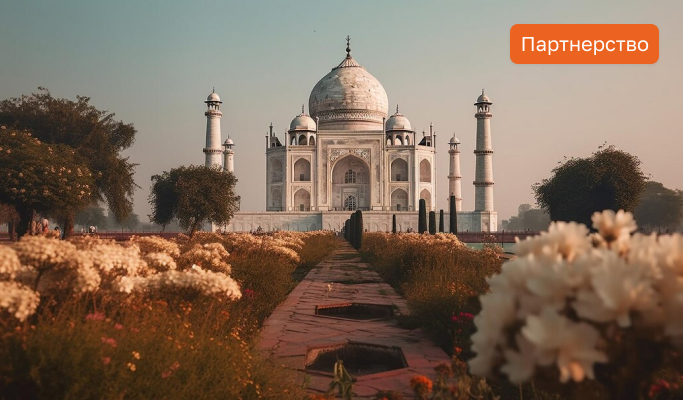
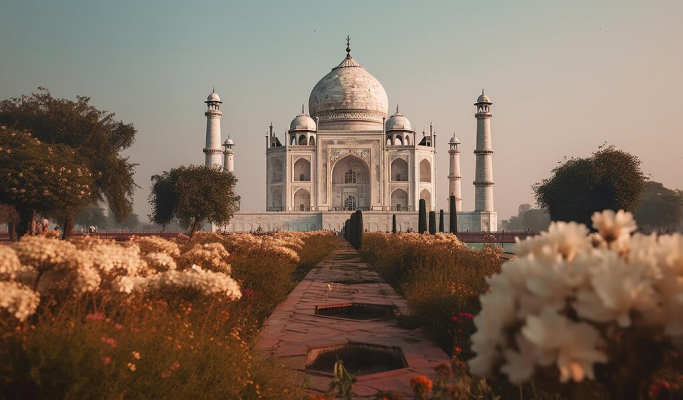
news html

Changed region(s): [[0.7379, 0.06, 0.9839, 0.18]]

diff --git a/index.html b/index.html
@@ -1128,6 +1128,39 @@
           </form>
         </div>
       </section>
+      <section class="news">
+        <div class="container news__ontainer">
+          <div class="news__header">
+            <h2 class="title news__header-title">География бизнеса</h2>
+            <a href="#" class="news__header-link">Дилерство PRIDE</a>
+          </div>
+          <div class="news__body">
+            <div class="news__body-top">
+              <div class="news__body-cart_horizontal">
+                <div class="news__body-cart_horizontal-label">Партнерство</div>
+                <img
+                  src="images/news/n01.jpg"
+                  alt="Первая новость"
+                  loading="lazy" />
+                <div class="news__body-cart_horizontal-textbox">
+                  <div class="news__body-cart_horizontal-data"></div>
+                    1 Января, 2024 г.
+                  </div>
+                  <h3 class="news__body-cart_horizontal-title">
+                    Встречаем гостя из Индии!
+                  </h3>
+                  <p class="news__body-cart_horizontal-subtitle">
+                    На прошлой неделе наш завод PRIDE посетил представитель ACME
+                    TECHNOLOGIES, господин Basavaraj Prabhugoudabiradar,
+                    прибывший из живописного города Bangalore, India.</p>
+                  <div class="news__body-cart_horizontal-tile">8 мин.</div>
+                </div>
+              </div>
+            </div>
+            <div class="news__body-down"></div>
+          </div>
+        </div>
+      </section>
     </main>
     <script src="js/swiper-bundle.js"></script>
     <script src="js/hero-slider.js"></script>
